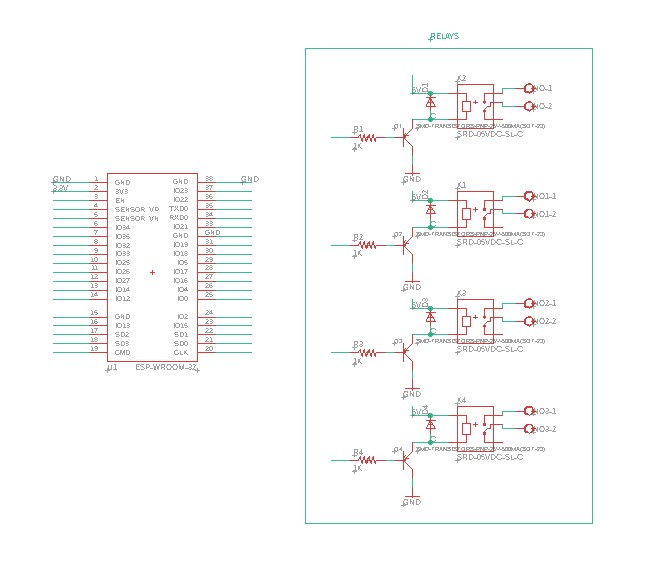
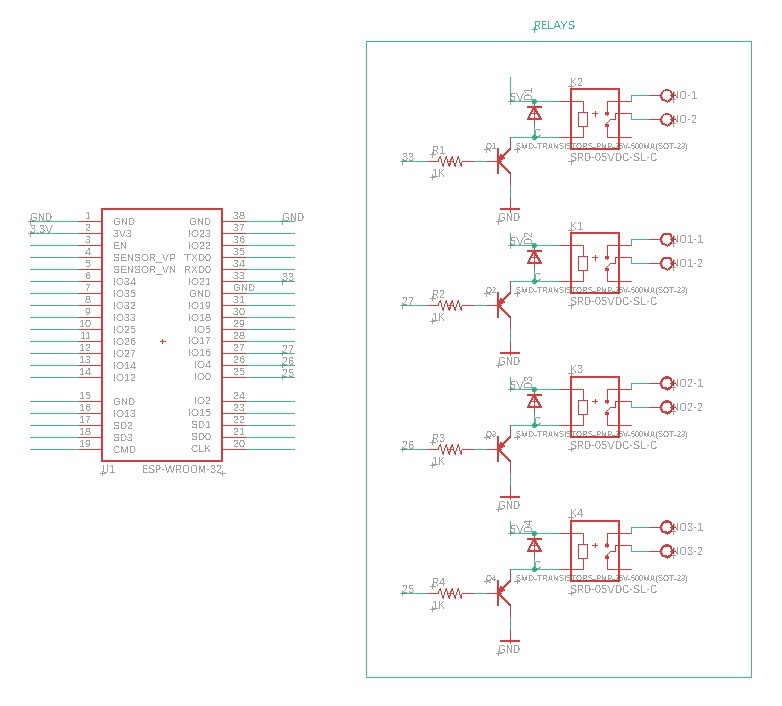
updates network

diff --git a/network.html b/network.html
@@ -123,12 +123,28 @@
         </ol>
         <p>After reviewing all of them I decided to use the one from MacroYau/MacroYau. </p>
         <p class="pic left"><img src="media/network/esppcb01.jpg"></p>
+        <p>Because I want maximum compatibility with the dev kits for ESP32 I was use to I went looking for and found a ESP32 Wroom pinout that I used to name the pins.</p>
+        <p class="pic left"><img src="media/network/esp32-pinout-chip-esp-wroom-32.jpg">Found again on Random Nerds tutorial website :-)</p>
+        <p>Next step was to go and attach net wires to each pin. I wish I did this in the order I am presenting as it would have saved me redoing many wires I connected wrongly in the first place. Wheel the lesson is logical pin number and physical pin numbers are not always the same so with that in mind connected them this time correctly.</p>
+        <p class="pic left"><img src="media/network/connectingthewiresineagle.jpg"></p>
+        <p>Thats the end result:</p>
+        <p class="pic left"><img src="media/network/endresultesp32.jpg"></p>
         <p>The relay I found at <a href="https://www.snapeda.com/parts/SRD-05VDC-SL-C/Songle%20Relay/view-part/1029484/">snapeda</a> its not the same model than the one I have but the footprint is.</p>
         <p>The relay circuit I found online <a href="">here</a> at web.archive schematics below.</p>
         <p class="pic left"><img src="media/network/relay_circuit_schematic_S.jpg"></p>
         <p>With the schematics in hand I draw the following in eagle:</p>
-                <p class="pic left"><img src="media/network/relayssch.jpg"></p>
-
+        <p class="pic left"><img src="media/network/relayssch.jpg"></p>
+        <p>For the battery circuit I followed a circuit in the web page <a href="https://randomnerdtutorials.com/power-esp32-esp8266-solar-panels-battery-level-monitoring/">Random Nerds Tutorial</a>.</p>
+        <p class="pic left">name<img src="media/network/esp32-solar-powered-circuit-1.jpg"></p>
+        <p>Since I don't have the TP4056 module for now my circuit will contain only the sensing part.</p>
+        <p class="pic left"><img src="media/network/powersense.jpg"></p>
+        <p>For the future I found the library for the TP4056 <a href="https://breadboardtronics.wordpress.com/tag/tp4056/">here</a>.</p>
+        <p>The humidity Sensor library can be found <a href="">here</a> with it in hand I simply had to net some wires to the ESP32 pin 32</p>
+        <p class="pic left"><img src="media/network/dhtsch.jpg"></p>
+        <p>As for the current sensor I chose to use the ACS712 the library I found on this <a href="https://github.com/triffid/ESC/tree/master/Schematic%20and%20Board">Github.</a>the finished Schematics is below:</p>
+        <p class="pic left"><img src="media/network/currentsensesch.jpg"></p>
+        <p>I got the Real time clock library as well at <a href="https://www.snapeda.com/parts/DS1302ZN/Maxim%20Integrated/view-part/?ref=search&t=DS1302Z">Snapeda</a> but for now I will not use it so the full Schematics I draw is bellow:</p>
+        <p class="pic left"><img src="media/network/schematics.jpg"></p>
         <hr>
         <h4>Code</h4>
         <p>My network protocol is going to be around a json file, before a project becomes gigantic simple text files are a good option and json is my weapon of choice</p>
@@ -142,9 +158,6 @@
         <ol>
             <li>Declare size of Json Document</li>
         </ol>
-
-
-
         <p>A great source of documentation and a great assistant to create the parsing program and the serializing program is a <a href="https://arduinojson.org/v6/assistant/">Arduino Json Website</a></p>
         <h4>Input Jason</h4>
         <pre style="max-height: 40em; margin-bottom: 20px;"><code class="language-c">{
